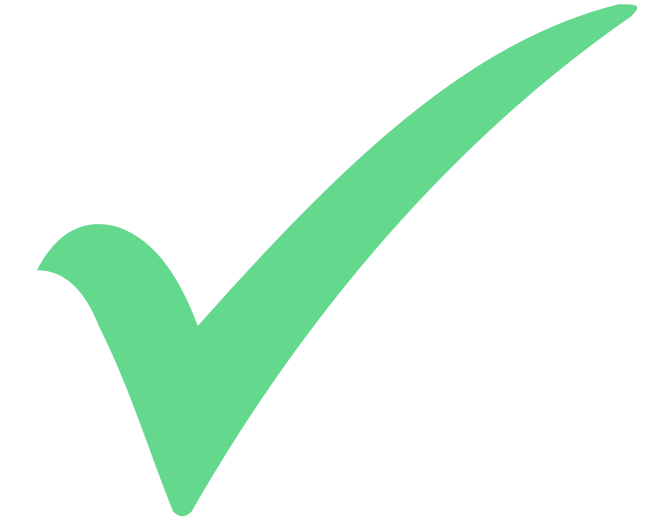
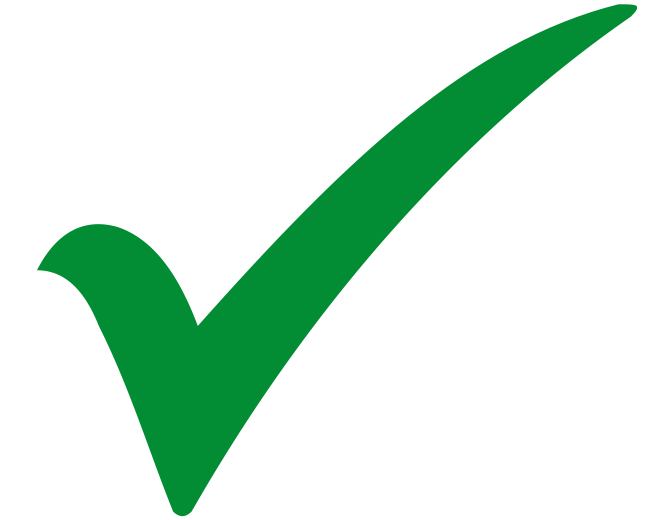
Style todolist app in todo.css.

Changed region(s): [[0.0615, 0.0, 0.9846, 1.0]]

diff --git a/src/components/TodoComponents/Todo.css b/src/components/TodoComponents/Todo.css
@@ -78,24 +78,44 @@ font-family: 'Roboto Condensed', sans-serif;
 h1 {
     font-size: 3rem;
     font-weight: 700;
+    padding-top: 2rem;
+    margin-bottom: 1rem;
+}
+
+h1 span {
+ color: #028C33;
+ text-decoration:underline;
 }
 
 h3 {
     font-size: 1.2rem;
     font-weight: 400;
     margin-left: .2rem;
+    margin-top: .5rem;
+    animation-delay: .5s;
 }
 
-.todo-app-container {
+.app {
     max-width: 800px;
     margin: 0 auto;
+    padding-top: 1rem;
+    padding-bottom: 5rem;
+    padding-left: 3rem;
+    background-image: linear-gradient(rgba(201, 201, 201, 0.4) .1em, transparent .1em), linear-gradient(90deg, rgba(201, 201, 201, .4) .1em, transparent .1em);
+  background-size: 3em 3em;
+  border: 2px solid darkgray;
+  border-radius: 5px;
+}
+
+.todo-content-container {
+    margin-top: 2.5rem;
 }
 
 .todoItem {
     width: 45%;
     text-align: left;
     margin: 4px 0;
-    padding-left: 8px;
+    padding-bottom: 1rem;
   }
 
 .todoItem:hover {
@@ -114,16 +134,95 @@ h3 {
       flex-direction: row;
       width: 100%;
       justify-content: flex-start;
-      align-items: center;
+      align-items: flex-start;
   }
 
   .checkMark {
-      /* display:none; */
-      width: 20px;
-      height:20px;
+      display:none;
+      width: 30px;
+      height:30px;
   }
 
   .checkMark.include {
     display:block;
 }
 
+input {
+    padding: .5rem 2rem .5rem 2rem;
+    box-sizing: border-box;
+    border-radius: 5px;
+    margin: 0 1rem 0 0;
+    font-size: 1rem;
+}
+
+form {
+    display: flex;
+    flex-direction: column;
+    width: 40%;
+}
+input:focus {
+   outline: none;
+} 
+
+.task-field {
+    border: 0;
+    border-top: 1px solid rgb(77, 77, 77);
+    border-bottom: 1px solid rgb(77, 77, 77);
+    box-shadow: 1px 1px 3px rgba(0, 0, 0, 0.5);
+}
+
+.task-field:focus {
+    border-top: 2px solid #028C33;
+    border-bottom: 2px solid #028C33;
+}
+
+button.add-button {
+    padding-left: 20px;
+    padding-top: 10px;
+    padding-right: 20px;
+    padding-bottom: 10px;
+    width: 170px;
+    margin-top: 1rem;
+    border-radius: 5px;
+    background-color: #028C33;
+    box-shadow: 2px 2px 10px rgba(29, 29, 29, 0.8);
+    color: white;
+    font-size: 1rem;
+    outline: 0;
+    font-family: 'Roboto Condensed', sans-serif;
+}
+
+button.add-button:hover {
+    cursor: pointer;
+    transform: scale(1.1);
+}
+
+button.clear-button {
+    padding-left: 20px;
+    padding-top: 10px;
+    padding-right: 20px;
+    padding-bottom: 10px;
+    width: 170px;
+    margin-top: 1rem;
+    border-radius: 5px;
+    background-color: #7E7E7E;
+    box-shadow: 2px 2px 10px rgba(29, 29, 29, 0.8);
+    color: white;
+    font-size: 1rem;
+    outline: 0;
+    font-family: 'Roboto Condensed', sans-serif;
+}
+
+button.clear-button:hover {
+    cursor: pointer;
+    background: #A41515;
+    transform: scale(1.1);
+
+}
+
+.left-design {
+    background: green;
+    height: 300px;
+    width: 40px;
+    border: 1px solid black;
+}

diff --git a/src/App.js b/src/App.js
@@ -73,25 +73,29 @@ class App extends React.Component {
   
   render() {
     return (
-      <div className="todo-app-container">
-        <h1>Todone</h1>
-        <h3>A todo list management app you can count on.</h3>
-        <div>
-        <TodoList 
-        todoListProp={this.state.todoList} 
-        toggleItem={this.toggleItem}
-        />
+<div className="app">
+      <div className="todo-primary-container">
+      <h1 className="animated fadeInDownBig">To<span>done</span></h1>
+        <h3 className="animated fadeIn">A todo list management app you can count on.</h3>
+        <div className="todo-content-container animated fadeIn">
+            <div>
+            <TodoList 
+            todoListProp={this.state.todoList} 
+            toggleItem={this.toggleItem}
+            />
+            </div>
+            <div>
+              <TodoForm
+              task={this.state.task}
+              handleChanges={this.handleChanges}
+              updateList={this.updateList}
+              handleClickEvent={this.handleClickEvent}
+              />
+            </div>
+            <button className="clear-button" onClick={this.clearCompleted}>Clear Completed</button>
+          </div>
         </div>
-        <div>
-          <TodoForm
-          task={this.state.task}
-          handleChanges={this.handleChanges}
-          updateList={this.updateList}
-          handleClickEvent={this.handleClickEvent}
-          />
-        </div>
-        <button onClick={this.clearCompleted}>Clear Completed</button>
-      </div>
+</div>
     );
   }
 }

diff --git a/src/components/TodoComponents/TodoForm.js b/src/components/TodoComponents/TodoForm.js
@@ -4,13 +4,14 @@ const TodoForm= props => {
 
     return (
         <form>
-            <input
-                value={props.task}
-                name="task"
-                placeholder="...todo"
-                onChange={props.handleChanges}
-            />
-            <button onClick={props.updateList}>Add Todo</button>
+                <input
+                    value={props.task}
+                    name="task"
+                    placeholder="What's next on the list?"
+                    onChange={props.handleChanges}
+                    className="task-field"
+                />
+            <button className="add-button" onClick={props.updateList}>Add Todo</button>
         </form>
     );
 };

diff --git a/public/index.html b/public/index.html
@@ -10,6 +10,7 @@
     -->
     <link rel="manifest" href="%PUBLIC_URL%/manifest.json">
     <link rel="shortcut icon" href="%PUBLIC_URL%/favicon.ico">
+    <link rel="stylesheet" href="https://cdnjs.cloudflare.com/ajax/libs/animate.css/3.7.0/animate.min.css">
     <!--
       Notice the use of %PUBLIC_URL% in the tags above.
       It will be replaced with the URL of the `public` folder during the build.
